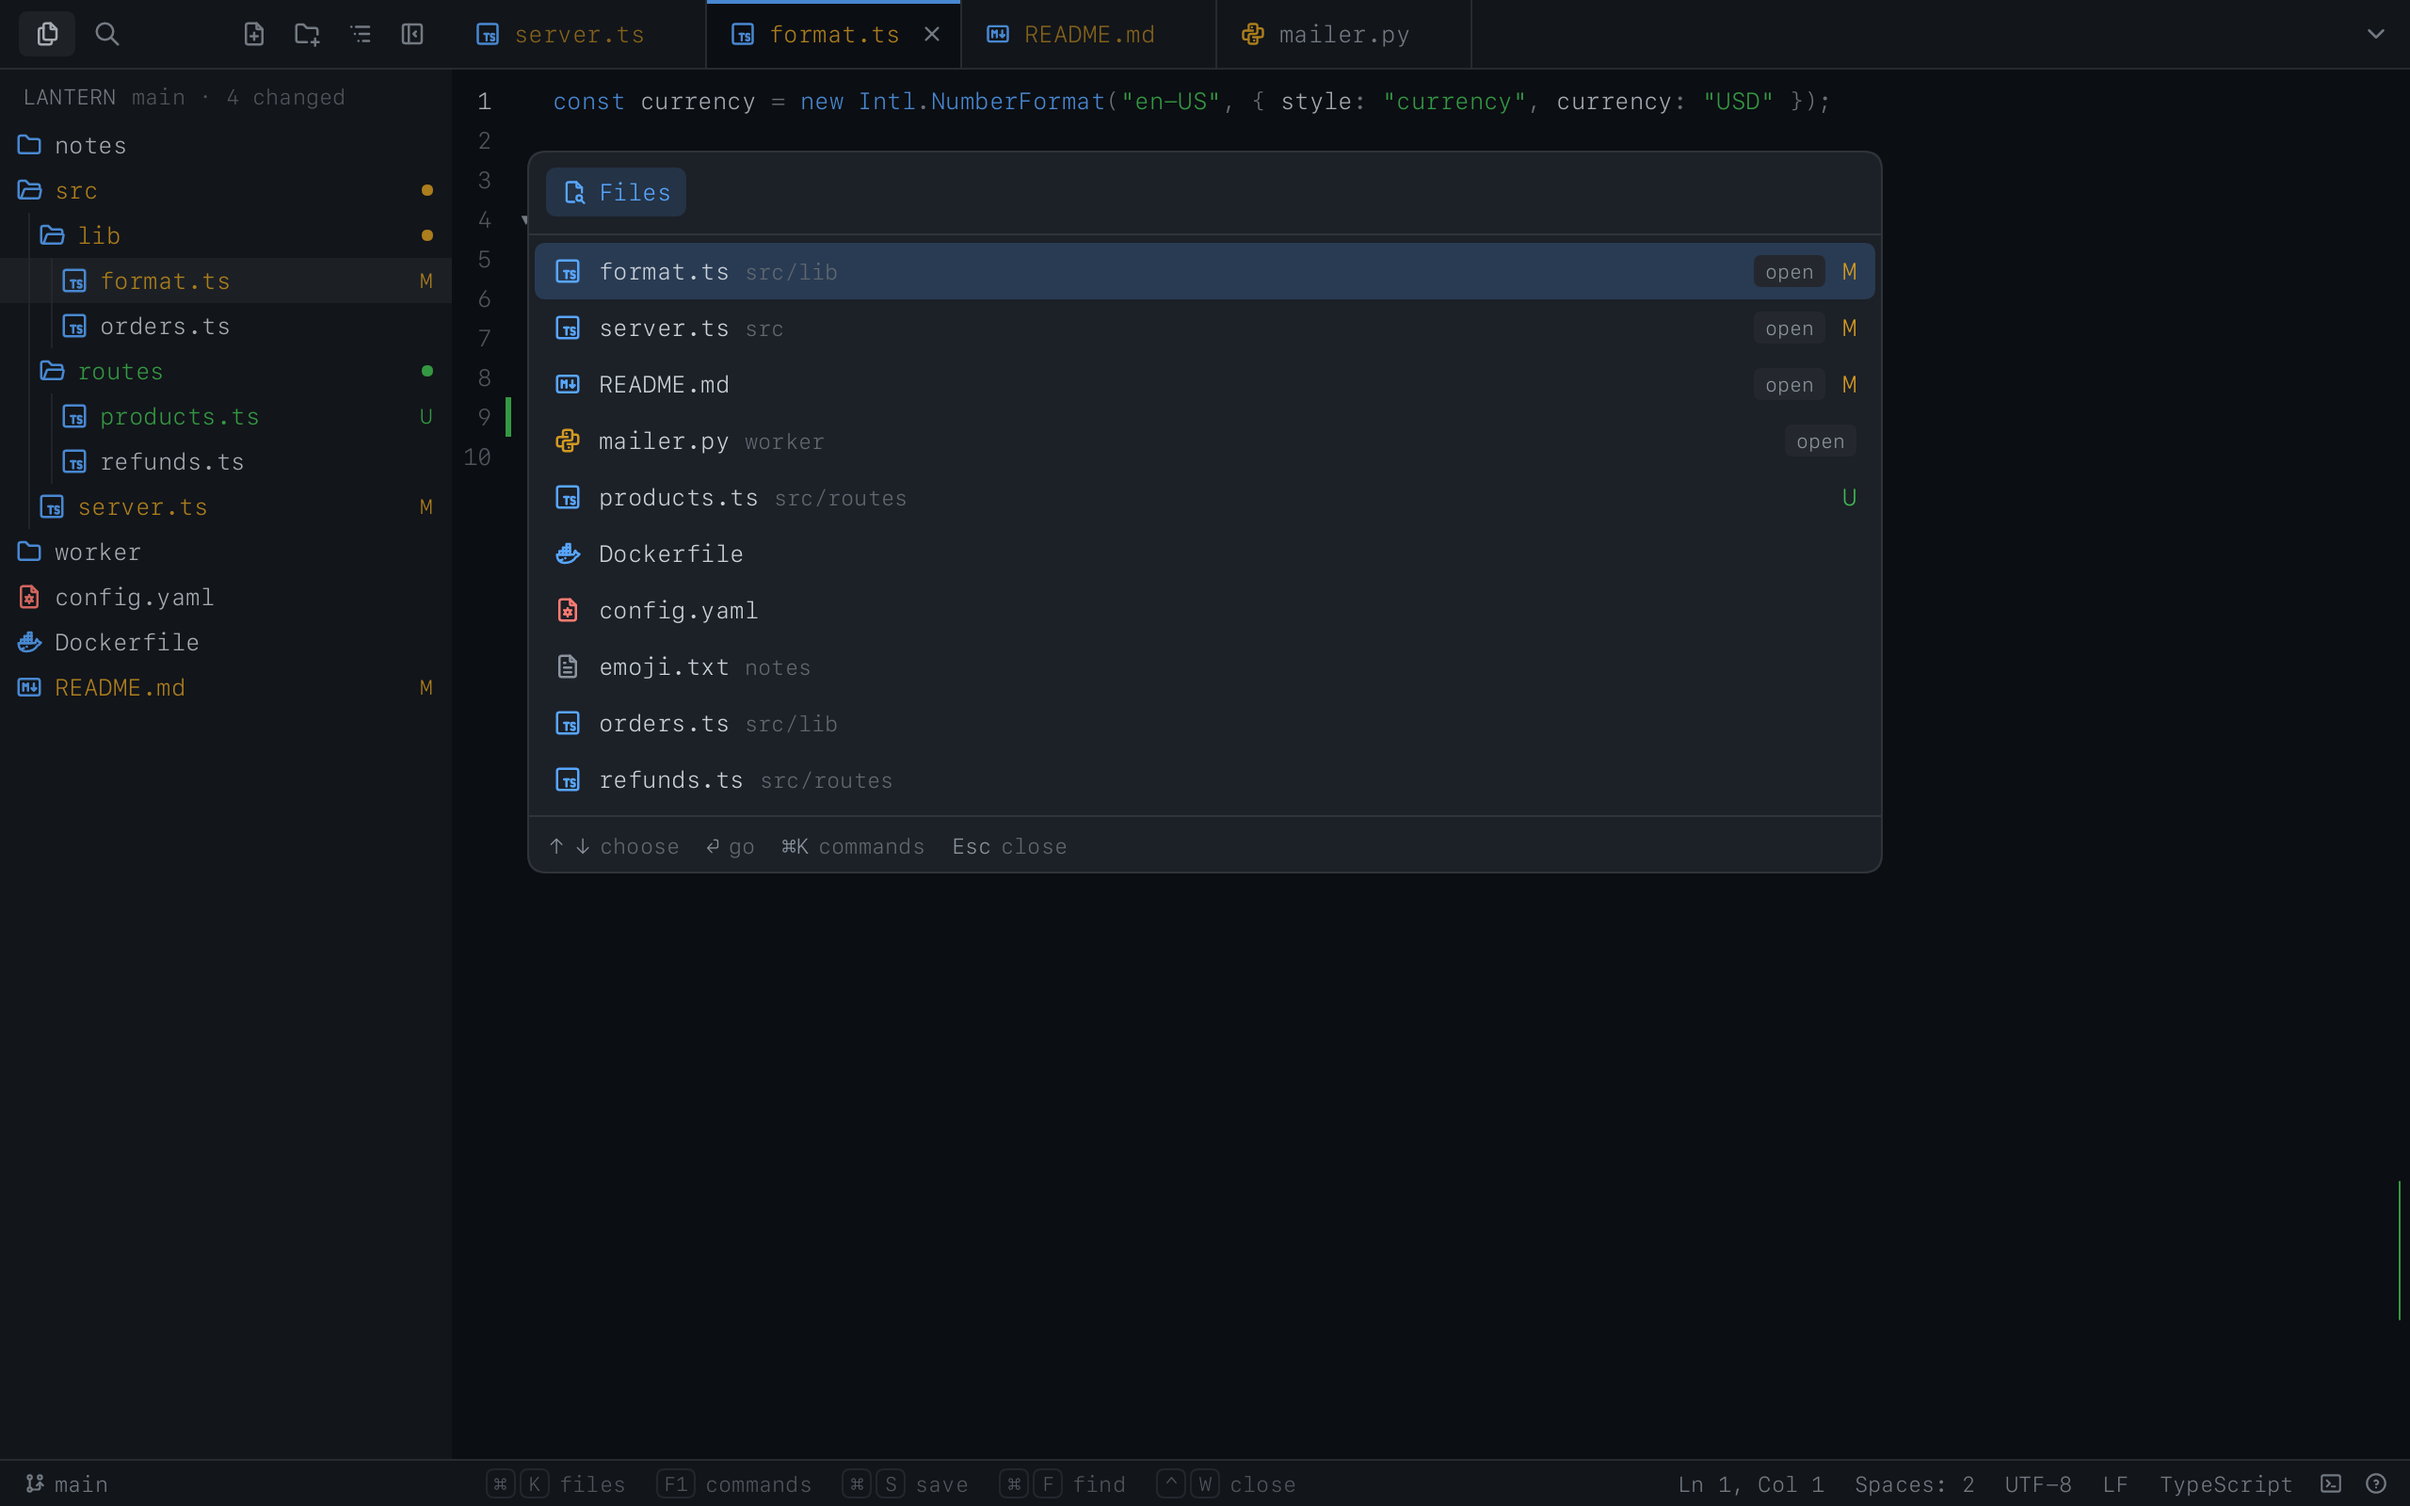
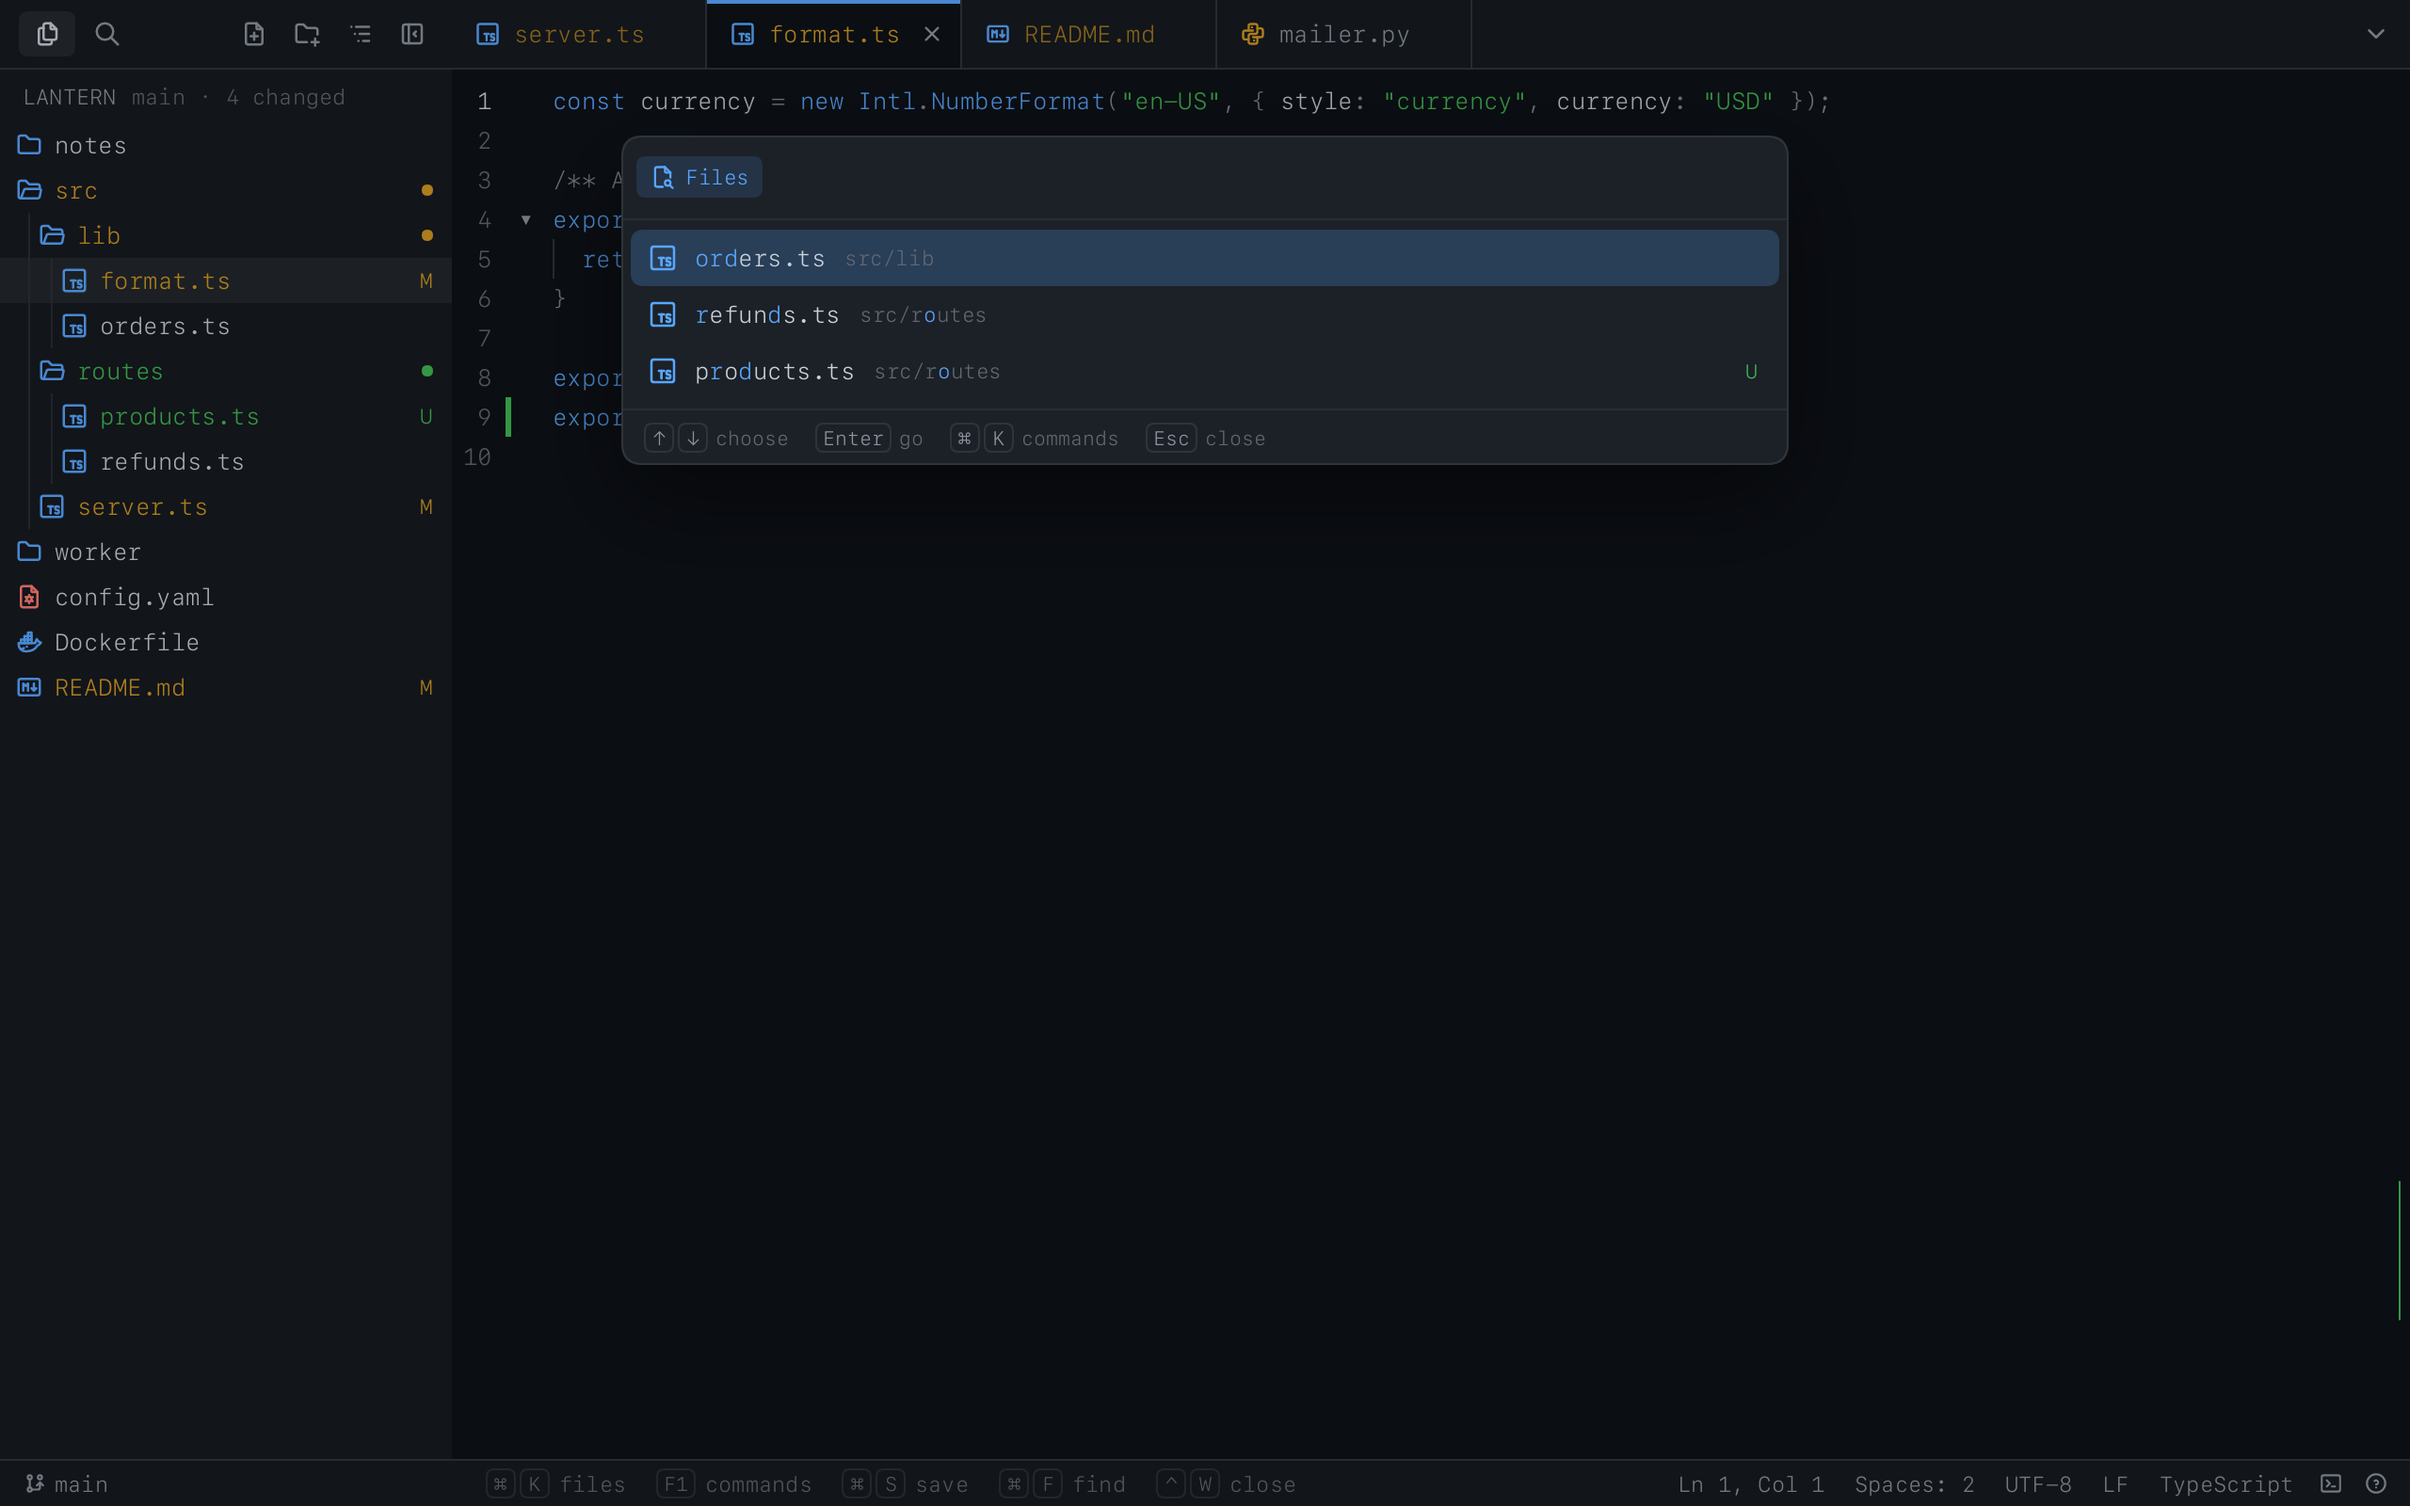
Bring the quick-open palette back to the original's look: rows that stay 30 points, a card 620 wide, the keys of its foot as caps with Enter a word, and no "open" word on a file
The list's rows were squeezed to a part of their height where there were more of them than the card held; they keep it now, and the list is as high as whole rows with room around it (5 points, as the original had), so that a row never touches the line over the foot. The chosen row is inset and 7 points rounded, the git letters stand in a column of their own, a command's keys are caps, and a pane under 340 points high or 520 wide has no foot, as the original's had none. The empty-query palette has a picture of its own, docs/palette-empty.png.

Changed region(s): [[0.2188, 0.0938, 0.7812, 0.375], [0.2188, 0.4375, 0.2812, 0.5312]]

diff --git a/src/program/page_tests.rs b/src/program/page_tests.rs
@@ -1337,6 +1337,42 @@ fn backspace_in_an_empty_palette_goes_back_to_the_files() -> Result<(), Error> {
     Ok(())
 }
 
+/// The palette's rows stay 30 points however long the list is (the list is as high as whole rows),
+/// the files carry no "open" word for the tabs that are, the foot writes its keys as caps (Enter is a
+/// word) and a short pane has no foot.
+#[test]
+#[ignore = "page: compiles the kit's interpreter and drives the page; make test-page"]
+fn the_palette_keeps_its_rows_whole_and_says_its_keys_as_words() -> Result<(), Error> {
+    let project = lantern();
+    let session = project.session(&["src/server.ts", "src/lib/orders.ts"]);
+    let mut page = project.open(&session, WIDE)?;
+    page.press("cmd+k")?;
+    let words = page_words(&page);
+    assert!(!words.iter().any(|word| word == "open"), "{words:?}");
+    assert!(
+        words.iter().any(|word| word == "Enter") && !words.iter().any(|word| word.contains('⏎')),
+        "{words:?}"
+    );
+    let first = page.bounds("palette-item:1").expect("a row");
+    let second = page.bounds("palette-item:2").expect("a second row");
+    assert_eq!((first.h, second.h), (30.0, 30.0));
+    // A long list (every command) is cut between rows, not through one.
+    page.type_text(">")?;
+    let list = page.bounds("palette-list").expect("the list");
+    assert_eq!(list.h % 30.0, 0.0, "{list:?}");
+    assert_eq!(page.bounds("palette-item:9").expect("a row").h, 30.0);
+    page.press("escape")?;
+    let session = project.session(&["src/server.ts"]);
+    let mut page = project.open(&session, PANE)?;
+    page.press("cmd+k")?;
+    let words = page_words(&page);
+    assert!(
+        shows(&page, "server.ts") && !words.iter().any(|word| word == "Enter"),
+        "{words:?}"
+    );
+    Ok(())
+}
+
 /// A command with several keys is done by each of them; a menu's entries show their keys as a
 /// command's are written.
 #[test]

diff --git a/src/program/page_shots.rs b/src/program/page_shots.rs
@@ -135,10 +135,14 @@ fn the_pictures_of_the_docs() -> Result<(), Error> {
     save(&page, &fonts, Palette::Dark, "changes.png");
     page.press("escape")?;
 
-    // The palette: the project's files, those seen last first (what is typed into its field is the
-    // host's to draw, and is not in the picture).
+    // The palette: the project's files, those seen last first, then those that go with "ord" (what
+    // is typed into its field, and its placeholder, are the host's to draw, and are not in the
+    // pictures).
     go_to(&mut page, "src/lib/format.ts")?;
     page.press("cmd+k")?;
+    page.advance(0.5)?;
+    save(&page, &fonts, Palette::Dark, "palette-empty.png");
+    page.type_text("ord")?;
     page.advance(0.5)?;
     save(&page, &fonts, Palette::Dark, "palette.png");
     page.press("escape")?;
